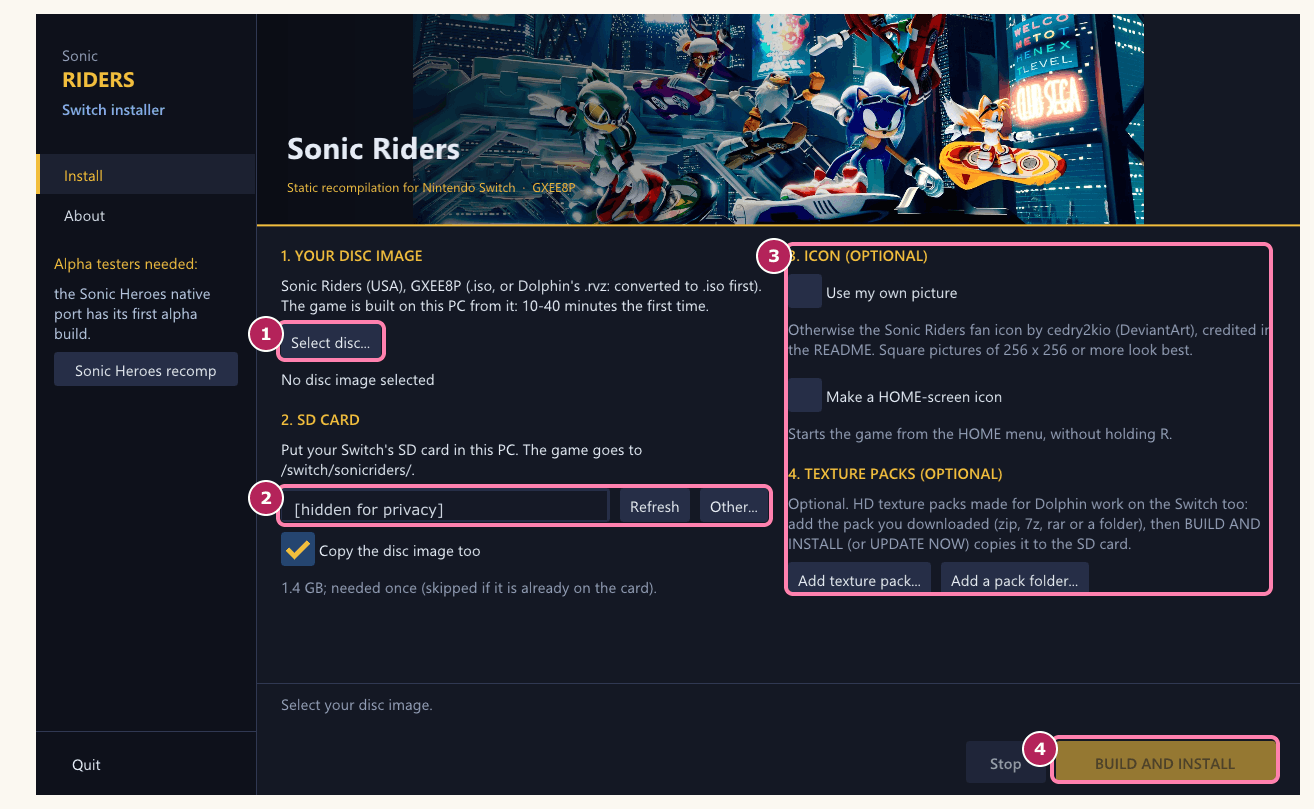
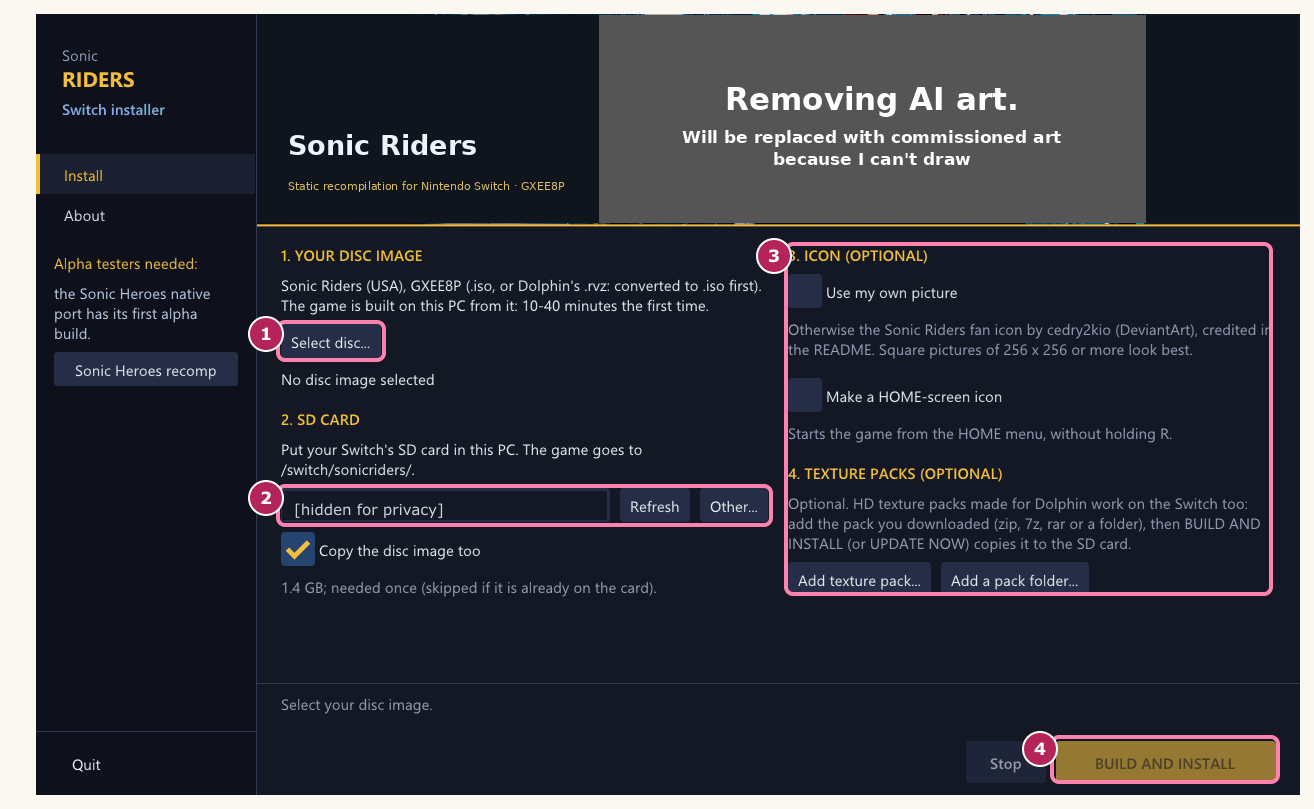
Replace generated artwork with commissioned-art placeholders

Changed region(s): [[0.2184, 0.0, 0.8737, 0.2781]]

diff --git a/tools/check_no_game_data.py b/tools/check_no_game_data.py
@@ -47,25 +47,24 @@ HOME_OK = re.compile(r"(?i)(users[\\/](?:<[^>]+>|(?:you|name|username|me|public)
 
 # The one exception to "no binary files" (the user's OK, 2026-11-03): the touch-control pictures, the
 # maintainer's own art (not from the game), exactly these files with exactly this content. A new or changed
-# picture is refused until its SHA-1 is put here. Also the launcher banner (the user's OK, 2026-11-07): public
-# fan art the user chose, not from the game.
+# picture is refused until its SHA-1 is put here. The temporary art notices are also listed by exact hash.
 OWN_ART = {
     # User-requested documentation: reviewed current installer UI, privacy masks and vector annotations.
-    "docs/images/installation/switch-completion.png": "117e009d71e381fddb4c4cb6332ece8c87c3f63d",
-    "docs/images/installation/switch-installer.png": "c99dbc9b73cd2eff24ca90320837d46c7323a15d",
+    "docs/images/installation/switch-completion.png": "1cb4e8d8313b987baf8fdc731e780fd6b4de6dc0",
+    "docs/images/installation/switch-installer.png": "76fe8771aefad69448b6c98767a9e02cb566a664",
     "docs/images/installation/switch-options.png": "d3f833422dd4516892cf3c3d6f0081adcc328ad3",
     "docs/images/installation/switch-select-card.png": "11edb8b1b22b4918e675a8ab53135bda53652b70",
     "docs/images/installation/switch-select-disc.png": "61022475a40e09d810c6109c18162d854e26b1c4",
-    "docs/images/installation/switch2-completion.png": "871abff16aa48ed974e3197b4ff43e4ed9fcfb43",
-    "docs/images/installation/switch2-installer.png": "2d0427e65a7c73bfdd9d84250ac27995cd60bf60",
+    "docs/images/installation/switch2-completion.png": "7df010349711695f3d83e43102044fe16a16c4dd",
+    "docs/images/installation/switch2-installer.png": "248bd149a28d6219df463c49de49ee75c5f59065",
     "docs/images/installation/switch2-options.png": "38d20665c4661e4bf94671f9de4b58b0d6d2df55",
     "docs/images/installation/switch2-select-card.png": "3415e8d035862c907f3cdeefe8bd3dbe7e84a600",
     "docs/images/installation/switch2-select-disc.png": "eff37dd176652aa70c7c8977d04d0e95f70abfcb",
-    "docs/images/switch2-alpha1-banner.jpg": "b4be7ce0f7e34e3b56735283781a58c775fc5161",  # user-approved Lanmana banner, unchanged with signature (2026-11-18)
+    "docs/images/switch2-alpha1-banner.jpg": "50f383f932945e183f8a2ab34c8d84d9083e9887",  # Temporary commissioned-art notice
     "docs/images/switch2-poster.jpg": "1b3ad238b2a0864f3b838fbde681415262cc5d47",  # README Switch 2 poster, Lanmana art with signature (user's choice, 2026-11-19)
-    "docs/images/riders-plus/riders-plus-banner.jpg": "db92bc23219a1cc21e32f950d26c205b56a49c11",  # README Riders Plus banner (user's choice, 2026-11-19)
-    "docs/images/v0.9.0/super-sonic-banner.jpg": "66e4eda38e8f110669f51927ebde8a326b82d195",  # Super Sonic release banner (user's AI art, 2026-11-20)
-    "launcher/banner.jpg": "a1d51fb7890668be5dfd126311b946aec8744339",
+    "docs/images/riders-plus/riders-plus-banner.jpg": "7fa3b8313fe95d24cd5c040a76954685fef24315",  # Temporary commissioned-art notice
+    "docs/images/v0.9.0/super-sonic-banner.jpg": "79a2665eb5b64fbce7f0c94920175405cf4e656e",  # Temporary commissioned-art notice
+    "launcher/banner.jpg": "0c0d252792e9f873acabec1def46d38675b10f8f",  # Temporary commissioned-art notice
     # README comparison screenshots, original vs this port (the user's OK, 2026-11-11): exactly these four
     "docs/images/compare/original-1.jpg": "4bd5401024ca6f240715dc878434d6d298f59421",
     "docs/images/compare/recomp-1.jpg": "0c6a55e5adb65b61a34af262b847ada0e7df3a8e",
@@ -73,9 +72,9 @@ OWN_ART = {
     "docs/images/compare/recomp-2.jpg": "fcd82ec1a09589caf26a55fcaf501e0f7bd4cdde",
     "docs/images/settings-display.jpg": "c02503fd7d6f88b77049d5b695505cab0fc6bb7b",  # settings menu screenshot for the v0.8.0 notes (the user's OK, 2026-11-11)
     # v0.8.2 release notes (the user's OK, 2026-11-14): the user's ChatGPT banners and a PC race screenshot pair
-    "docs/images/v0.8.2/riders-plus-banner.jpg": "74a6b9d10125473c5be6130b8520b29aabc5c750",  # fixed hand (2026-11-16)
+    "docs/images/v0.8.2/riders-plus-banner.jpg": "50f383f932945e183f8a2ab34c8d84d9083e9887",  # Temporary commissioned-art notice
     "docs/images/issues/mp-level-hud.jpg": "e8d45030f746c1ce4f90e66e622662965dd961e0",  # issue: split-screen HUD stays Lv 3 (user, 2026-11-16)
-    "docs/images/v0.8.2/online-coming-soon.jpg": "2d581b0f9a375a972d77d26a7d870cfeade37af2",
+    "docs/images/v0.8.2/online-coming-soon.jpg": "e4710f7b6b9a3e3f14b827d7dc1e8db5dfa89aac",  # Temporary commissioned-art notice
     "docs/images/v0.8.2/riders-plus-lv5.jpg": "334b4f1100ec2981fd006e6ea71ffbc81046e2e1",
     # README Riders Plus section (the user's OK, 2026-11-16): the user's recorded PC race, replayed at 21:9
     "docs/images/riders-plus/lv4-level-up.jpg": "49e32a6731443637290c05c66091ecf539dfbbd5",
@@ -84,8 +83,8 @@ OWN_ART = {
     "docs/images/riders-plus/lv5-boost.jpg": "56cefaa56117aa79fc437d676cc7f10fe9287daa",
     "docs/images/riders-plus/trick-rank-ss.jpg": "d8d432b8da8a8a35b25ecaf7131ad59e8620f533",
     "docs/images/riders-plus/tunnel-294.jpg": "8ac53a61c267a2e2cbb103b35d38f4c7b229803d",
-    "launcher/icon_256.png": "80541e60eb82d9440c001da3bc4c7240bda2b111",  # launcher icon (user's ChatGPT art, 2026-11-09)
-    "launcher/icon_32.png": "24e3018e7e6651be4cbba8228f81364bf9d0a70e",
+    "launcher/icon_256.png": "f9b393122164043da06b4002970f1a78aee9d7af",  # Temporary commissioned-art notice
+    "launcher/icon_32.png": "086786f3ba04dfc99c50e9956dd6614db8327640",  # Temporary commissioned-art notice
     "setup/icon.png": "b84f997daba5df2563d0c3526cf633aa87151ebf",  # game icon: cedry2kio's fan-made icon (user's OK, 2026-11-10; README credits)
     "setup/icon_256.jpg": "4ab58b2f4da4418a9febadea57937eae7f2da5a6",  # the same, 256 x 256 for the Switch NRO
     "android/touch_icons/boost_b.png": "e91d748d8a99c76b0aad985ea40ae1437c10e982",
@@ -102,6 +101,17 @@ OWN_ART = {
 # the user's choice, 2026-11-07) and cedry2kio's game icon (the user's OK, 2026-11-10); and the maintainer's own
 # touch-control art. Committing any of these again as a new file is still refused unless it is in OWN_ART.
 PAST_ART = {
+    "docs/images/installation/switch-installer.png": {"c99dbc9b73cd2eff24ca90320837d46c7323a15d"},
+    "docs/images/installation/switch-completion.png": {"117e009d71e381fddb4c4cb6332ece8c87c3f63d"},
+    "docs/images/installation/switch2-installer.png": {"2d0427e65a7c73bfdd9d84250ac27995cd60bf60"},
+    "docs/images/installation/switch2-completion.png": {"871abff16aa48ed974e3197b4ff43e4ed9fcfb43"},
+    "docs/images/riders-plus/riders-plus-banner.jpg": {"db92bc23219a1cc21e32f950d26c205b56a49c11"},
+    "docs/images/v0.9.0/super-sonic-banner.jpg": {"66e4eda38e8f110669f51927ebde8a326b82d195"},
+    "docs/images/v0.8.2/riders-plus-banner.jpg": {"74a6b9d10125473c5be6130b8520b29aabc5c750"},
+    "docs/images/v0.8.2/online-coming-soon.jpg": {"2d581b0f9a375a972d77d26a7d870cfeade37af2"},
+    "docs/images/switch2-alpha1-banner.jpg": {"b4be7ce0f7e34e3b56735283781a58c775fc5161"},
+    "launcher/icon_256.png": {"80541e60eb82d9440c001da3bc4c7240bda2b111"},
+    "launcher/icon_32.png": {"24e3018e7e6651be4cbba8228f81364bf9d0a70e"},
     "docs/images/banner.jpg": {"54c9de3ff1b1c31237fc9649449e1f4bdfae4f9b", "4c0e681fef3ff69d583129825b1023f00a86f0c5"},  # removed from README 2026-11-19
     "launcher/banner.jpg": {"a1d51fb7890668be5dfd126311b946aec8744339"},
     "setup/icon.png": {"b84f997daba5df2563d0c3526cf633aa87151ebf", "b42362f551138986cd53dda64721510c101a80e2"},

diff --git a/README.md b/README.md
@@ -65,7 +65,7 @@
 ## Riders Plus: break the limits
 
 <p align="center">
-  <img src="docs/images/riders-plus/riders-plus-banner.jpg" width="100%" alt="Riders Plus: Break the limits. Sonic and Super Sonic on Extreme Gear in Metal City, with 999 rings and a Lv. 5 badge">
+  <img src="docs/images/riders-plus/riders-plus-banner.jpg" width="100%" alt="Removing AI art. Will be replaced with commissioned art because I can't draw">
 </p>
 
 **Riders Plus** is our own take on the game's racing, built in and **on by default**. Same tracks, characters and
